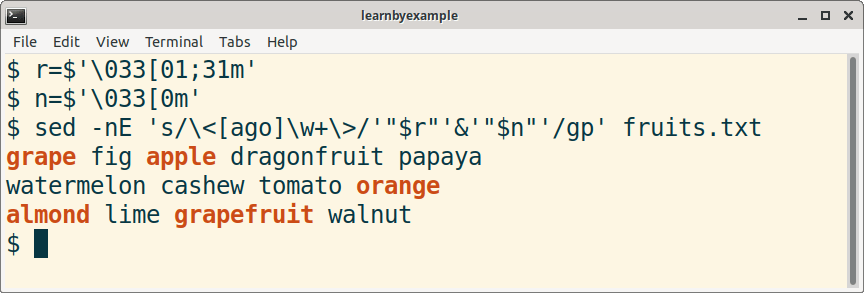
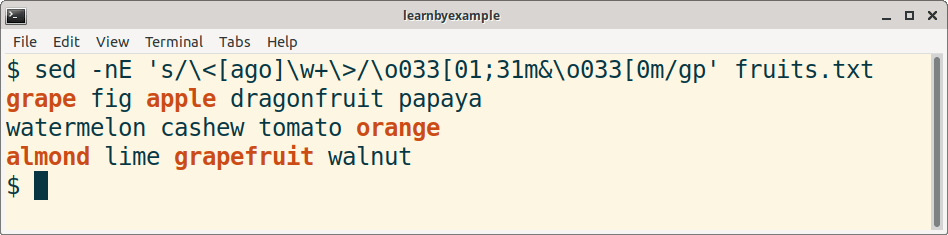
updated coloring with CLI tools post

Changed region(s): [[0.0, 0.0, 1.0, 1.0], [0.0, 0.5064, 0.5625, 0.8936], [0.7188, 0.3872, 0.875, 0.4766]]

diff --git a/coloring-matched-portions-grep-sed-awk/index.html b/coloring-matched-portions-grep-sed-awk/index.html
@@ -1,9 +1,24 @@
-<!doctype html><html lang=en><head><meta content="IE=edge" http-equiv=X-UA-Compatible><meta content="text/html; charset=utf-8" http-equiv=content-type><meta content="width=device-width,initial-scale=1.0,maximum-scale=1" name=viewport><title>Coloring matched portions with GNU grep, sed and awk</title><link href=https://learnbyexample.github.io/atom.xml rel=alternate title=RSS type=application/atom+xml><script src=https://cdnjs.cloudflare.com/ajax/libs/slideout/1.0.1/slideout.min.js></script><link href=https://learnbyexample.github.io/site.css rel=stylesheet><meta content="Coloring matched portions with GNU grep, sed and awk" property=og:title><meta content=website property=og:type><meta content="Examples for highlighting text of interest with various Linux CLI tools." property=og:description><meta content=https://learnbyexample.github.io/coloring-matched-portions-grep-sed-awk/ property=og:url><meta content=https://learnbyexample.github.io/images/awk_color_field_processing.png property=og:image><meta content=752 property=og:image:width><meta content=467 property=og:image:height><meta content=summary_large_image property=twitter:card><meta content=@learn_byexample property=twitter:site><link href=https://learnbyexample.github.io/favicon.svg rel=icon><link rel="shortcut icon" href=https://learnbyexample.github.io/favicon.png><body><div class=container><div class=mobile-navbar id=mobile-navbar><div class=mobile-header-logo><a class=logo href=/>learnbyexample</a></div><div class="mobile-navbar-icon icon-out"><span></span><span></span><span></span></div></div><nav class="mobile-menu slideout-menu slideout-menu-left" id=mobile-menu><ul class=mobile-menu-list><li class=mobile-menu-item><a href=https://learnbyexample.github.io/books> Books </a><li class=mobile-menu-item><a href=https://learnbyexample.github.io/mini> Mini </a><li class=mobile-menu-item><a href=https://learnbyexample.github.io/tips> Tips </a><li class=mobile-menu-item><a href=https://learnbyexample.github.io/tags> Tags </a><li class=mobile-menu-item><a href=https://learnbyexample.github.io/about> About </a></ul></nav><header id=header><div class=logo><a href=https://learnbyexample.github.io>learnbyexample</a></div><nav class=menu><ul><li><a href=https://learnbyexample.github.io/books> Books </a><li><a href=https://learnbyexample.github.io/mini> Mini </a><li><a href=https://learnbyexample.github.io/tips> Tips </a><li><a href=https://learnbyexample.github.io/tags> Tags </a><li><a href=https://learnbyexample.github.io/about> About </a></ul></nav></header><main><div class=content id=mobile-panel><div class=post-toc id=post-toc><h2 class=post-toc-title>Contents</h2><div class="post-toc-content always-active"><nav id=TableOfContents><ul><li><a class=toc-link href=https://learnbyexample.github.io/coloring-matched-portions-grep-sed-awk/#gnu-grep>GNU grep</a><li><a class=toc-link href=https://learnbyexample.github.io/coloring-matched-portions-grep-sed-awk/#formatting-with-ansi-escape-sequences>Formatting with ANSI escape sequences</a><li><a class=toc-link href=https://learnbyexample.github.io/coloring-matched-portions-grep-sed-awk/#gnu-sed>GNU sed</a><li><a class=toc-link href=https://learnbyexample.github.io/coloring-matched-portions-grep-sed-awk/#gnu-awk>GNU awk</a></ul></nav></div></div><article class=post><header class=post__header><h1 class=post__title><a href=https://learnbyexample.github.io/coloring-matched-portions-grep-sed-awk/>Coloring matched portions with GNU grep, sed and awk</a></h1><div class=post__meta><span class=post__time>2025-01-13</span></div></header><div class=post-content><p>You might already know how to use the <code>--color</code> option to highlight matched portions with <code>GNU grep</code>. In this post, you'll see how to use ANSI escape sequences to format matched portions with <code>GNU sed</code> and <code>GNU awk</code>.</p><span id=continue-reading></span><br><h2 id=gnu-grep>GNU grep<a aria-label="Anchor link for: gnu-grep" class=zola-anchor href=#gnu-grep>🔗</a></h2><p>Consider this sample input file:<pre style=background-color:#f5f5f5;color:#1f1f1f;><code><span>$ cat fruits.txt
+<!doctype html><html lang=en><head><meta content="IE=edge" http-equiv=X-UA-Compatible><meta content="text/html; charset=utf-8" http-equiv=content-type><meta content="width=device-width,initial-scale=1.0,maximum-scale=1" name=viewport><title>Coloring matched portions with GNU grep, sed and awk</title><link href=https://learnbyexample.github.io/atom.xml rel=alternate title=RSS type=application/atom+xml><script src=https://cdnjs.cloudflare.com/ajax/libs/slideout/1.0.1/slideout.min.js></script><link href=https://learnbyexample.github.io/site.css rel=stylesheet><meta content="Coloring matched portions with GNU grep, sed and awk" property=og:title><meta content=website property=og:type><meta content="Examples for highlighting text of interest with various Linux CLI tools." property=og:description><meta content=https://learnbyexample.github.io/coloring-matched-portions-grep-sed-awk/ property=og:url><meta content=https://learnbyexample.github.io/images/awk_color_field_processing.png property=og:image><meta content=752 property=og:image:width><meta content=467 property=og:image:height><meta content=summary_large_image property=twitter:card><meta content=@learn_byexample property=twitter:site><link href=https://learnbyexample.github.io/favicon.svg rel=icon><link rel="shortcut icon" href=https://learnbyexample.github.io/favicon.png><body><div class=container><div class=mobile-navbar id=mobile-navbar><div class=mobile-header-logo><a class=logo href=/>learnbyexample</a></div><div class="mobile-navbar-icon icon-out"><span></span><span></span><span></span></div></div><nav class="mobile-menu slideout-menu slideout-menu-left" id=mobile-menu><ul class=mobile-menu-list><li class=mobile-menu-item><a href=https://learnbyexample.github.io/books> Books </a><li class=mobile-menu-item><a href=https://learnbyexample.github.io/mini> Mini </a><li class=mobile-menu-item><a href=https://learnbyexample.github.io/tips> Tips </a><li class=mobile-menu-item><a href=https://learnbyexample.github.io/tags> Tags </a><li class=mobile-menu-item><a href=https://learnbyexample.github.io/about> About </a></ul></nav><header id=header><div class=logo><a href=https://learnbyexample.github.io>learnbyexample</a></div><nav class=menu><ul><li><a href=https://learnbyexample.github.io/books> Books </a><li><a href=https://learnbyexample.github.io/mini> Mini </a><li><a href=https://learnbyexample.github.io/tips> Tips </a><li><a href=https://learnbyexample.github.io/tags> Tags </a><li><a href=https://learnbyexample.github.io/about> About </a></ul></nav></header><main><div class=content id=mobile-panel><div class=post-toc id=post-toc><h2 class=post-toc-title>Contents</h2><div class="post-toc-content always-active"><nav id=TableOfContents><ul><li><a class=toc-link href=https://learnbyexample.github.io/coloring-matched-portions-grep-sed-awk/#gnu-grep>GNU grep</a><li><a class=toc-link href=https://learnbyexample.github.io/coloring-matched-portions-grep-sed-awk/#formatting-with-ansi-escape-sequences>Formatting with ANSI escape sequences</a><li><a class=toc-link href=https://learnbyexample.github.io/coloring-matched-portions-grep-sed-awk/#gnu-sed>GNU sed</a><li><a class=toc-link href=https://learnbyexample.github.io/coloring-matched-portions-grep-sed-awk/#gnu-awk>GNU awk</a><li><a class=toc-link href=https://learnbyexample.github.io/coloring-matched-portions-grep-sed-awk/#linux-cli-ebooks>Linux CLI ebooks</a></ul></nav></div></div><article class=post><header class=post__header><h1 class=post__title><a href=https://learnbyexample.github.io/coloring-matched-portions-grep-sed-awk/>Coloring matched portions with GNU grep, sed and awk</a></h1><div class=post__meta><span class=post__time>2025-01-13</span></div></header><div class=post-content><p>You might already know how to use the <code>--color</code> option to highlight matched portions with <code>GNU grep</code>. In this post, you'll see how to use ANSI escape sequences to format matched portions with <code>GNU sed</code> and <code>GNU awk</code>.</p><span id=continue-reading></span><br><h2 id=gnu-grep>GNU grep<a aria-label="Anchor link for: gnu-grep" class=zola-anchor href=#gnu-grep>🔗</a></h2><p>Consider this sample input file:<pre style=background-color:#f5f5f5;color:#1f1f1f;><code><span>$ cat fruits.txt
 </span><span>banana mango cherry pineapple
 </span><span>grape fig apple dragonfruit papaya
 </span><span>watermelon cashew tomato orange
 </span><span>almond lime grapefruit walnut
-</span></code></pre><p>The output for <code>grep --color -wE '[ago]\w+' fruits.txt</code> is shown below:<p align=center><img alt="Example for displaying matched portions in color with GNU grep" src=/images/grep_color.png><p><img alt=info src=/images/info.svg> See <a href=https://learnbyexample.github.io/learn_gnugrep_ripgrep/frequently-used-options.html#colored-output>this section</a> from my ebook on <code>GNU grep</code> for more details about this option. <a href=https://github.com/BurntSushi/ripgrep>ripgrep</a> has a more featured support for color formatting, see <a href=https://learnbyexample.github.io/learn_gnugrep_ripgrep/ripgrep.html#colored-output>this section</a> for an example.</p><br><h2 id=formatting-with-ansi-escape-sequences>Formatting with ANSI escape sequences<a aria-label="Anchor link for: formatting-with-ansi-escape-sequences" class=zola-anchor href=#formatting-with-ansi-escape-sequences>🔗</a></h2><p>Here are some examples to show how you can format text in the terminal using ANSI escape sequences:<p align=center><img alt="Examples for formatting with ANSI escape sequences" src=/images/ANSI_escape_sequences_formatting.png><p>Your choice of formatting goes between <code>\033[</code> and <code>m</code>. In the above example, <code>01</code> is for bold and <code>31</code> is for the color red. Multiple formats can be specified by separating the parameters with a semicolon. Using <code>0</code> turns off the format (otherwise, it will persist in the current terminal session until turned off).<p>See also:<ul><li><a href=https://stackoverflow.com/q/4842424/4082052>List of ANSI color escape sequences</a><li><a href=https://unix.stackexchange.com/q/148/109046>Colorizing your terminal and shell environment</a></ul><p><img alt=info src=/images/info.svg> Note that you can also use <code>\e</code> instead of <code>\033</code> in the above examples. However, that will not work with the <code>GNU awk</code> examples shown below.</p><br><h2 id=gnu-sed>GNU sed<a aria-label="Anchor link for: gnu-sed" class=zola-anchor href=#gnu-sed>🔗</a></h2><p><code>GNU sed</code> doesn't have a native support for the escape sequences discussed above. Instead, you can store the sequences in a shell variable using <a href=https://www.gnu.org/software/bash/manual/bash.html#ANSI_002dC-Quoting>ANSI-C Quoting</a> and use them where required. Here's an example:<p align=center><img alt="Example for displaying matched portions in color with GNU sed" src=/images/sed_color.png></p><br><h2 id=gnu-awk>GNU awk<a aria-label="Anchor link for: gnu-awk" class=zola-anchor href=#gnu-awk>🔗</a></h2><p>With <code>GNU awk</code>, you can directly embed the ANSI escape sequences in a string. Here's an example:<p align=center><img alt="Example for displaying matched portions in color with GNU awk" src=/images/awk_color.png><p>Here's a field processing example:<pre style=background-color:#f5f5f5;color:#1f1f1f;><code><span>$ cat marks.txt 
+</span></code></pre><p>The output for <code>grep --color -wE '[ago]\w+' fruits.txt</code> is shown below:<p align=center><img alt="Example for displaying matched portions in color with GNU grep" src=/images/grep_color.png><p><img alt=info src=/images/info.svg> See <a href=https://learnbyexample.github.io/learn_gnugrep_ripgrep/frequently-used-options.html#colored-output>this section</a> from my ebook on <code>GNU grep</code> for more details about this option. <a href=https://github.com/BurntSushi/ripgrep>ripgrep</a> has a more featured support for color formatting, see <a href=https://learnbyexample.github.io/learn_gnugrep_ripgrep/ripgrep.html#colored-output>this section</a> for an example.</p><br><h2 id=formatting-with-ansi-escape-sequences>Formatting with ANSI escape sequences<a aria-label="Anchor link for: formatting-with-ansi-escape-sequences" class=zola-anchor href=#formatting-with-ansi-escape-sequences>🔗</a></h2><p>Here are some examples to show how you can format text in the terminal using ANSI escape sequences:<p align=center><img alt="Examples for formatting with ANSI escape sequences" src=/images/ANSI_escape_sequences_formatting.png><p>Your choice of formatting goes between <code>\033[</code> and <code>m</code>. You can use <code>01</code> for <strong>bold</strong>, <code>03</code> for <em>italics</em> and <code>04</code> for <u>underline</u>. <code>31</code> is for the color <font color=red>red</font>, <code>32</code> for <font color=green>green</font> and <code>34</code> for <font color=blue>blue</font>. Multiple formats can be specified by separating the parameters with a semicolon. Using <code>0</code> turns off the format (otherwise, it will persist in the current terminal session until turned off).<p>If you find a file that has accidentally saved such escape sequences, you can use <code>cat -v</code> to identify them.<pre style=background-color:#f5f5f5;color:#1f1f1f;><code><span>$ echo 'one (two) three' | grep --color=always '(two)' | cat -v
+</span><span>one ^[[01;31m^[[K(two)^[[m^[[K three
+</span></code></pre><p>See also:<ul><li><a href=https://stackoverflow.com/q/4842424/4082052>List of ANSI color escape sequences</a><li><a href=https://unix.stackexchange.com/q/148/109046>Colorizing your terminal and shell environment</a></ul><p><img alt=info src=/images/info.svg> Note that you can also use <code>\e</code> instead of <code>\033</code> in the above examples. However, that will not work with the <code>GNU awk</code> examples shown below.</p><br><h2 id=gnu-sed>GNU sed<a aria-label="Anchor link for: gnu-sed" class=zola-anchor href=#gnu-sed>🔗</a></h2><p>With <code>GNU sed</code>, you'll need to use <code>\o</code> to specify an octal escape sequence. Here's an example:<p align=center><img alt="Example for displaying matched portions in color with GNU sed" src=/images/sed_color.png><p>Here's an example for processing lines bounded by distinct markers:<pre style=background-color:#f5f5f5;color:#1f1f1f;><code><span>$ cat blocks.txt
+</span><span>mango
+</span><span>icecream
+</span><span>--start 1--
+</span><span>dragon 1234
+</span><span>unicorn 6789
+</span><span>**end 1**
+</span><span>have a nice day
+</span><span>--start 2--
+</span><span>a b c
+</span><span>apple banana cherry
+</span><span>**end 2**
+</span><span>par,far,mar,tar
+</span></code></pre><p align=center><img alt="Highlighting portion of interest in multiline processing with GNU sed" src=/images/sed_multiline_color.png></p><br><h2 id=gnu-awk>GNU awk<a aria-label="Anchor link for: gnu-awk" class=zola-anchor href=#gnu-awk>🔗</a></h2><p>With <code>GNU awk</code>, you can embed the ANSI escape sequences in a string similar to the <code>printf</code> example seen earlier.<p align=center><img alt="Example for displaying matched portions in color with GNU awk" src=/images/awk_color.png><p>Here's a field processing example:<pre style=background-color:#f5f5f5;color:#1f1f1f;><code><span>$ cat marks.txt 
 </span><span>Dept    Name    Marks
 </span><span>ECE     Raj     53
 </span><span>ECE     Joel    62
@@ -17,4 +32,4 @@
 </span><span>ECE 70
 </span><span>EEE 65
 </span><span>CSE 80
-</span></code></pre><p align=center><img alt="Color field processing results with GNU awk" src=/images/awk_color_field_processing.png></div><div class=post-footer><div class=post-tags><a href=https://learnbyexample.github.io/tags/gnu-grep/>#gnu-grep</a><a href=https://learnbyexample.github.io/tags/gnu-sed/>#gnu-sed</a><a href=https://learnbyexample.github.io/tags/gnu-awk/>#gnu-awk</a><a href=https://learnbyexample.github.io/tags/linux/>#linux</a></div><hr color=#e6e6e6><div class=post-nav><p><a class=next href=https://learnbyexample.github.io/100-page-python-intro-book-announcement/>100 Page Python Intro book announcement →</a><br></div><hr color=#e6e6e6><p>📰 Use <a href=https://learnbyexample.github.io/atom.xml>this link</a> for the Atom feed. <br> ✅ Follow me on <a href=https://twitter.com/learn_byexample>Twitter</a>, <a href=https://github.com/learnbyexample>GitHub</a> and <a href=https://www.youtube.com/c/learnbyexample42>Youtube</a> for interesting tech nuggets. <br> 📧 Subscribe to <a href=https://learnbyexample.gumroad.com/l/learnbyexample-weekly>learnbyexample weekly</a> for programming resources, tips, tools, free ebooks and more (free newsletter, delivered every Friday).<hr color=#e6e6e6></div></article></div></main></div><script src=https://learnbyexample.github.io/even.js></script>
+</span></code></pre><p align=center><img alt="Color field processing results with GNU awk" src=/images/awk_color_field_processing.png></p><br><h2 id=linux-cli-ebooks>Linux CLI ebooks<a aria-label="Anchor link for: linux-cli-ebooks" class=zola-anchor href=#linux-cli-ebooks>🔗</a></h2><p>Check out <a href=https://learnbyexample.github.io/books/>my ebooks</a> if you are interested in learning more about Linux CLI basics, coreutils, text processing tools like <code>GNU grep</code>, <code>GNU sed</code>, <code>GNU awk</code> and <code>perl</code>.</div><div class=post-footer><div class=post-tags><a href=https://learnbyexample.github.io/tags/gnu-grep/>#gnu-grep</a><a href=https://learnbyexample.github.io/tags/gnu-sed/>#gnu-sed</a><a href=https://learnbyexample.github.io/tags/gnu-awk/>#gnu-awk</a><a href=https://learnbyexample.github.io/tags/linux/>#linux</a></div><hr color=#e6e6e6><div class=post-nav><p><a class=next href=https://learnbyexample.github.io/100-page-python-intro-book-announcement/>100 Page Python Intro book announcement →</a><br></div><hr color=#e6e6e6><p>📰 Use <a href=https://learnbyexample.github.io/atom.xml>this link</a> for the Atom feed. <br> ✅ Follow me on <a href=https://twitter.com/learn_byexample>Twitter</a>, <a href=https://github.com/learnbyexample>GitHub</a> and <a href=https://www.youtube.com/c/learnbyexample42>Youtube</a> for interesting tech nuggets. <br> 📧 Subscribe to <a href=https://learnbyexample.gumroad.com/l/learnbyexample-weekly>learnbyexample weekly</a> for programming resources, tips, tools, free ebooks and more (free newsletter, delivered every Friday).<hr color=#e6e6e6></div></article></div></main></div><script src=https://learnbyexample.github.io/even.js></script>
